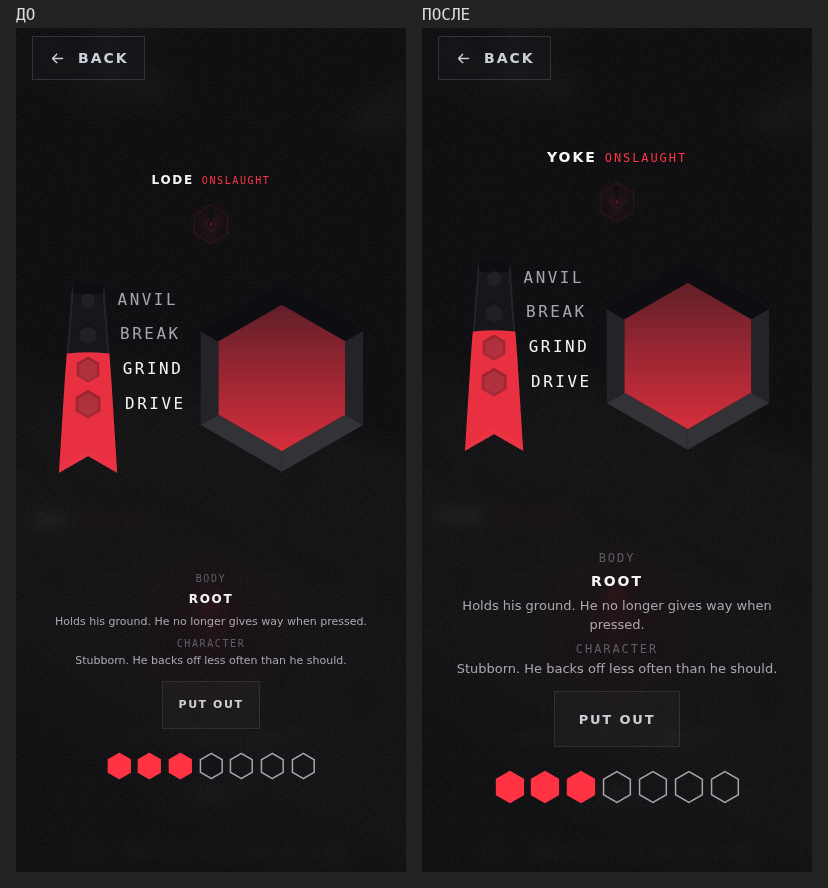
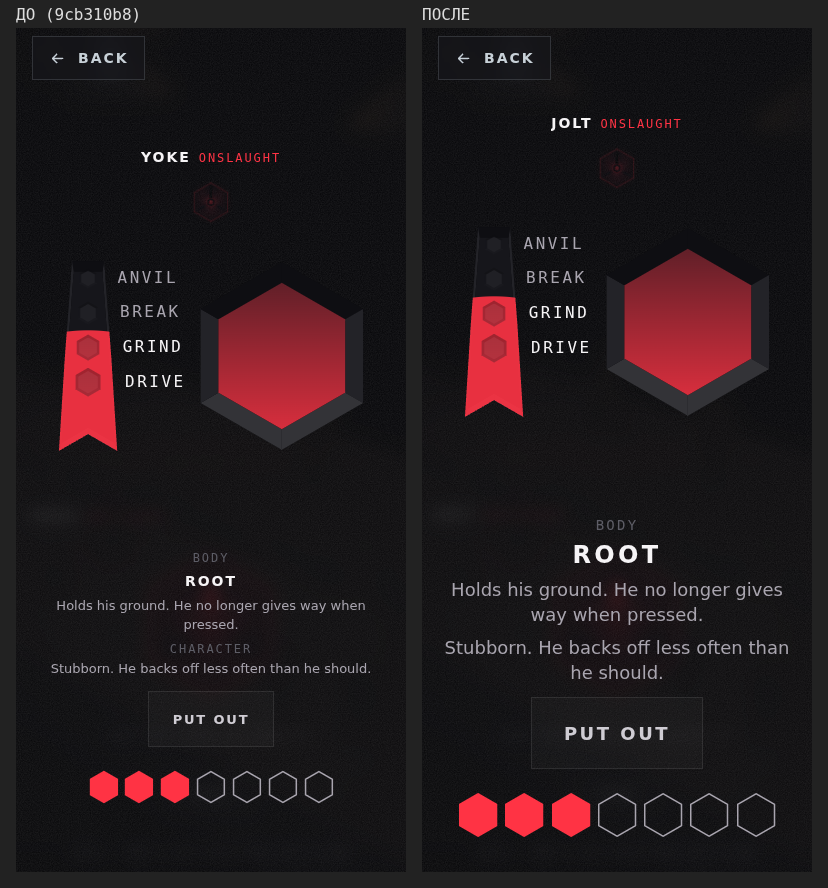
forge card: drop CHARACTER label, scroll text part with pinned button and hex row, raise type two more steps
Claude-Session: https://claude.ai/code/session_01EY8nt21kiZLttYXQw11NxB

diff --git a/src/styles/forge.css b/src/styles/forge.css
@@ -340,8 +340,8 @@
 .fc {
   display: flex; flex-direction: column; min-width: 0;
   /* Высота кнопок карточки: было --h-btn-md (48), теперь на восемь точек выше —
-     надпись выросла на две ступени шкалы, кнопка растёт вместе с ней. */
-  --fc-btn-h: calc(var(--h-btn-md) + var(--sp-2));
+     надпись выросла (11 → 13 → 18), кнопка растёт вместе с ней (48 → 56 → 72). */
+  --fc-btn-h: calc(var(--h-btn-md) + var(--sp-5));
 }
 
 /* Кто открыт — одной строкой. Имя заглавными, ядро своим цветом. */
@@ -469,65 +469,56 @@
 .fc-read { margin-top: var(--sp-3); min-width: 0; flex: 0 0 auto; }
 .fc-head { display: flex; flex-direction: column; gap: var(--sp-1); }
 .fc-kicker {
-  font-size: var(--t-sm); letter-spacing: var(--ls-meta);
+  font-size: var(--t-md); letter-spacing: var(--ls-meta);
   text-transform: uppercase; color: var(--ink-off);
 }
 .fc-name {
-  margin: 0; font-family: var(--font-display); font-size: var(--t-md);
+  margin: 0; font-family: var(--font-display); font-size: var(--t-xl);
   font-weight: 700; letter-spacing: var(--ls-title);
   text-transform: uppercase; color: var(--ink);
 }
 .fc-hint {
-  margin: 0; font-size: var(--t-sm); letter-spacing: var(--ls-title);
+  margin: 0; font-size: var(--t-md); letter-spacing: var(--ls-title);
   text-transform: uppercase; color: var(--ink-off); text-align: center;
 }
 .fc-hint--left { text-align: left; }
 /* ОПИСАНИЕ КРИСТАЛЛА — что он даёт в бою и как меняет манеру. Настоящий текст,
    а не перечень фраз из игровых данных (ТЗ 24.09.2026). Цифр здесь нет ни одной.
 
-   ⚠ ПРОКРУТКА ОСТАЁТСЯ, и она здесь единственная страховка от того, ради чего
-   ограничение и заводилось: длинное описание не должно выдавливать «ЗАЖЕЧЬ» и
-   возврат под нижний край (замерено прежде — на 67 точек в самой низкой
-   раскладке). Потолок поднят с 4.2em до 7.5em, потому что вместо двух-трёх
-   слов тут теперь два предложения: при прежнем потолке строка характера
-   пряталась под сгиб целиком, и её приходилось искать прокруткой.
+   ⚠ СВОЕЙ ПРОКРУТКИ У ЭТОГО БЛОКА БОЛЬШЕ НЕТ (ТЗ 30.09.2026, v3). Потолок
+   высоты снят: текст растёт вместе с кеглем. Прокручивается не он, а вся текстовая
+   часть — .fc-read, см. «.fco .fc-read» ниже — а кнопка и ряд остаются внизу.
+   В SPAR карточка стоит в панели, у которой прокрутка своя.
 
    ⚠ КАПИТЕЛИ У ПРЕДЛОЖЕНИЙ НЕТ. Она в системе отведена лейблам и ударным
    словам до трёх (hexlash-design §3); целое предложение заглавными и читается
-   хуже, и занимает заметно больше места. Заглавными здесь только подпись
-   CHARACTER — она лейбл. Трекинга у предложений тоже нет: он для подписей. */
+   хуже, и занимает заметно больше места. Трекинга у предложений тоже нет: он для подписей. */
 .fc-lines {
   margin: var(--sp-2) 0 0; padding: 0;
-  max-height: 7.5em; overflow-y: auto; overscroll-behavior: contain;
 }
 /* ⚠ Предложения переносятся, а не обрезаются: ни одного обрезающего правила
    здесь быть не должно. Длинное слово ломается, чтобы не распирать колонку. */
 .fc-line, .fc-char__text {
-  margin: 0; font-family: var(--font-display); font-size: var(--t-base);
-  line-height: 1.45; color: var(--ink-dim);
+  margin: 0; font-family: var(--font-display); font-size: var(--t-lg);
+  line-height: 1.4; color: var(--ink-dim);
   overflow-wrap: anywhere; hyphens: none;
 }
 .fc-char { margin: var(--sp-2) 0 0; }
-/* Подпись строки характера — лейбл, потому моно и заглавными. */
-.fc-char__label {
-  display: block; font-family: var(--font-mono); font-size: var(--t-sm);
-  letter-spacing: var(--ls-meta); text-transform: uppercase; color: var(--ink-off);
-}
-.fc-char__text { display: block; margin-top: var(--sp-1); }
+.fc-char__text { display: block; }
 
 .fc-foot {
   margin-top: var(--sp-3); flex: 0 0 auto; display: flex; align-items: center;
   gap: var(--sp-3); flex-wrap: wrap;
 }
 .fc-why {
-  margin: 0; font-size: var(--t-sm); letter-spacing: var(--ls-meta);
+  margin: 0; font-size: var(--t-md); letter-spacing: var(--ls-meta);
   text-transform: uppercase; color: var(--ink-off);
 }
 /* Зажечь — главное действие экрана, потому розовое. Оно тут одно. */
 .fc-light {
-  min-height: var(--fc-btn-h); padding: 0 var(--sp-5);
+  min-height: var(--fc-btn-h); padding: 0 var(--sp-6);
   border: 0; border-radius: var(--r-none); background: var(--pink);
-  color: var(--ink); font-family: var(--font-display); font-size: var(--t-base);
+  color: var(--ink); font-family: var(--font-display); font-size: var(--t-lg);
   font-weight: 700; letter-spacing: var(--ls-title);
   text-transform: uppercase; cursor: pointer;
   transition: opacity var(--d-hover) var(--e-settle);
@@ -539,10 +530,10 @@
 /* Погасить — не главное действие, поэтому не розовое: семья .fc-back, а размер и
    отступы — как у «зажечь», чтобы кнопка стояла ровно на его месте. */
 .fc-out {
-  min-height: var(--fc-btn-h); padding: 0 var(--sp-5);
+  min-height: var(--fc-btn-h); padding: 0 var(--sp-6);
   border: 1px solid var(--line); border-radius: var(--r-none);
   background: var(--fill-1); color: var(--ink-soft);
-  font-family: var(--font-display); font-size: var(--t-base);
+  font-family: var(--font-display); font-size: var(--t-lg);
   font-weight: 700; letter-spacing: var(--ls-title);
   text-transform: uppercase; cursor: pointer;
   transition: border-color var(--d-hover) var(--e-settle),
@@ -565,7 +556,7 @@
   flex: 0 0 100%; display: flex; justify-content: center; flex-wrap: nowrap;
   gap: var(--sp-2); margin-top: var(--sp-3);
 }
-.fc-pip { display: block; flex: none; height: 32px; width: auto; overflow: visible; }
+.fc-pip { display: block; flex: none; height: 44px; width: auto; overflow: visible; }
 .fc-pip polygon { vector-effect: non-scaling-stroke; }
 .fc-pip__hex {
   fill: none; stroke: var(--ink-dim); stroke-width: 1.5px; stroke-linejoin: miter;
@@ -590,7 +581,7 @@
 /* Строка «нет места» — читаемым тоном (--ink-soft), а не серым в ноль. */
 .fc-noroom {
   flex: 0 0 100%; margin: 0; text-align: center;
-  font-size: var(--t-base); letter-spacing: var(--ls-meta);
+  font-size: var(--t-lg); letter-spacing: var(--ls-meta);
   text-transform: uppercase; color: var(--ink-soft);
 }
 .fc-back {
@@ -610,7 +601,7 @@
    выключенными не были. Селектор с .fp нарочно: правила .fc-* выше делит с залом
    экран SPAR (SparView подключает этот файл ради ядра), и его подписи здесь не
    перекрашиваются. */
-.fp .fc-kicker, .fp .fc-hint, .fp .fc-char__label, .fp .fc-why { color: var(--ink-dim); }
+.fp .fc-kicker, .fp .fc-hint, .fp .fc-why { color: var(--ink-dim); }
 
 /* «Уменьшить движение»: переходов нет, конечные состояния те же. Отклик на
    выбор остаётся — он не украшение. */
@@ -939,7 +930,7 @@
   --f-t: 0px; --f-r: 0px; --f-b: 0px; --f-l: 0px;
   /* Что резервируем под остальное на слое: место под BACK сверху, подпись, описание
      и кнопку зажигания. От этого зависит, насколько крупной встанет фигура. */
-  --fco-reserve: 380px;
+  --fco-reserve: 450px;   /* было 380: кнопка и ряд выросли, фигура отдаёт им высоту */
 
   position: fixed; inset: 0; z-index: var(--z-modal);
   display: flex; flex-direction: column;
@@ -956,7 +947,24 @@
   /* Сверху — место под BACK (угол левый верхний), поэтому отступ больше боковых. */
   padding: calc(var(--h-btn-sm) + var(--sp-4) + var(--sp-2)) var(--sp-3) var(--sp-4);
 }
-.fco .fc { width: min(100%, 720px); margin: auto 0; }
+.fco .fc { width: min(100%, 720px); margin: auto 0; max-height: 100%; }
+
+/* ТЕКСТОВАЯ ЧАСТЬ ПРОКРУЧИВАЕТСЯ, КНОПКА И РЯД — НЕТ (ТЗ 30.09.2026, v3).
+   Фигура, подпись «кто», кнопка и ряд занимают свою высоту и не сжимаются; всё,
+   чего не хватает, берёт на себя .fc-read. Когда текст помещается — прокрутки нет,
+   затемнения нет, следов не видно. Полосы прокрутки нет совсем: что ниже есть ещё,
+   показывает мягкое затемнение нижней кромки (класс is-more ставит ForgeCore),
+   оно уходит, когда дошли до конца. */
+.fco .fc-stage, .fco .fc-who, .fco .fc-foot { flex: 0 0 auto; }
+.fco .fc-read {
+  flex: 1 1 auto; min-height: 0; overflow-y: auto; overscroll-behavior: contain;
+  scrollbar-width: none;
+}
+.fco .fc-read::-webkit-scrollbar { display: none; }
+.fco .fc-read.is-more {
+  -webkit-mask-image: linear-gradient(to bottom, #000 calc(100% - var(--sp-6)), transparent);
+          mask-image: linear-gradient(to bottom, #000 calc(100% - var(--sp-6)), transparent);
+}
 
 /* ФИГУРА — максимально крупная, какая влезает с полями: меньшая из ширины экрана
    и высоты за вычетом резерва. Фон убран: зал позади виден сквозь стекло, а не
@@ -989,12 +997,18 @@
   .fco-body { padding-bottom: var(--sp-2); }
   .fco .fc {
     width: min(100%, 860px); display: grid; align-items: center;
+    /* Высота — на всё тело слоя, строка текста — остаток между подписью и
+       кнопкой: она и прокручивается, а кнопка остаётся внизу. */
+    height: 100%; margin: 0;
     grid-template-columns: auto minmax(0, 1fr); column-gap: var(--sp-5);
+    grid-template-rows: auto minmax(0, 1fr) auto;
     grid-template-areas: "stage who" "stage read" "stage foot";
   }
   .fco .fc-stage { grid-area: stage; }
   .fco .fc-who { grid-area: who; justify-content: flex-start; }
-  .fco .fc-read { grid-area: read; }
+  /* stretch, а не центр: иначе строка принимает высоту текста целиком и не
+     прокручивается — налезает на кнопку. */
+  .fco .fc-read { grid-area: read; align-self: stretch; }
   .fco .fc-foot { grid-area: foot; }
 }
 

diff --git a/src/components/forge/ForgeCore.vue b/src/components/forge/ForgeCore.vue
@@ -209,7 +209,7 @@
     </div>
 
     <!-- ── что сейчас открыто ───────────────────────────────────────────── -->
-    <div class="fc-read">
+    <div ref="readEl" class="fc-read" :class="{ 'is-more': moreBelow }" @scroll.passive="updateMore">
       <template v-if="level === 'core'">
         <p class="fc-hint">{{ preview ? t.forge.coreOpenHint : t.forge.coreHint }}</p>
       </template>
@@ -223,15 +223,14 @@
         <p v-if="level === 'facet'" class="fc-hint fc-hint--left">{{ t.forge.facetHint }}</p>
 
         <!-- ОПИСАНИЕ КРИСТАЛЛА — две вещи и ни одной цифры (ТЗ 24.09.2026):
-             что он даёт бойцу в бою, и как он меняет его манеру. Вторую
-             подписываем словом CHARACTER — внутреннего словаря игрок не видит.
+             что он даёт бойцу в бою, и как он меняет его манеру. Подписи CHARACTER
+             над второй строкой больше нет (ТЗ 30.09.2026, v3): строка и так
+             читается как характер, а место нужно под размер.
              ⚠ Предложения набраны своим регистром, а не капителью: капитель в
-             системе отведена лейблам и ударным словам до трёх. Заглавными здесь
-             только сама подпись CHARACTER — она лейбл. -->
+             системе отведена лейблам и ударным словам до трёх. -->
         <div v-else-if="cryText" class="fc-lines">
           <p class="fc-line fc-line--effect">{{ cryText.effect }}</p>
           <p class="fc-char">
-            <span class="fc-char__label">{{ t.forge.characterLabel }}</span>
             <span class="fc-char__text">{{ cryText.character }}</span>
           </p>
         </div>
@@ -451,6 +450,34 @@ watch(() => props.spent, (n, o) => {
   pipTimer = setTimeout(() => { pipFlash.value = null; }, PIP_FLASH_MS);
 });
 onBeforeUnmount(() => clearTimeout(pipTimer));
+
+/* ── текстовая часть карточки прокручивается, кнопка и ряд — нет ────────────
+   В развороте высоты может не хватать (телефон стоя с крупным текстом, лёжа тем
+   более): тогда прокручивается ТОЛЬКО .fc-read, а .fc-foot остаётся прижатым к
+   низу. Полосы прокрутки нет (см. forge.css); что ниже есть ещё — говорит мягкое
+   затемнение нижней кромки, класс is-more. Он снимается, когда дошли до конца или
+   когда всё помещается. */
+const readEl = ref(null);
+const moreBelow = ref(false);
+function updateMore() {
+  const el = readEl.value;
+  moreBelow.value = !!el && el.scrollHeight - el.clientHeight - el.scrollTop > 2;
+}
+let readRo = null;
+onMounted(() => {
+  if (typeof ResizeObserver === 'undefined' || !readEl.value) return;
+  readRo = new ResizeObserver(updateMore);
+  readRo.observe(readEl.value);
+  updateMore();
+});
+onBeforeUnmount(() => { if (readRo) readRo.disconnect(); });
+/* Другой уровень или другой кристалл — текст другой: читать с начала. */
+watch([level, () => sel.value, () => cry.value], () => {
+  requestAnimationFrame(() => {
+    if (readEl.value) readEl.value.scrollTop = 0;
+    updateMore();
+  });
+});
 
 /* ── налив ─────────────────────────────────────────────────────────────── */
 const flowStyle = (f) => ({

diff --git a/src/locales/en.js b/src/locales/en.js
@@ -142,10 +142,7 @@ export default {
     litCount: "{n} OF {max} CRYSTALS LIT",
     // Все места заняты. Единственное место ряда со словами.
     noRoom: "NO ROOM — PUT ONE OUT FIRST",
-    // Подпись второй строки описания кристалла: как он меняет манеру бойца.
-    // ⚠ Внутреннего словаря здесь быть не может — игрок его не видит. Слово
-    // DOCTRINE и прочее наружу не выходит; для игрока это просто характер.
-    characterLabel: "CHARACTER",
+    // Подписи CHARACTER над строкой характера больше нет (ТЗ 30.09.2026, v3).
     backToFacet: "← BACK TO THE FACET",
     backToCore: "← BACK TO THE CORE",
     // почему этот кристалл не зажечь — по одной причине на случай

diff --git a/docs/forge-type-scale/REPORT.md b/docs/forge-type-scale/REPORT.md
@@ -1,4 +1,77 @@
-# Карточка кристалла: текст крупнее на две ступени (ТЗ 30.09.2026)
+# Карточка кристалла: ещё на две ступени, прокрутка текста, без подписи CHARACTER (ТЗ 30.09.2026, v3)
+
+Ветка `claude/forge-card-type-scale-2` — поверх `claude/forge-card-type-scale` (`9cb310b8`), в которой уже лежат ряд из семи шестиугольников и первый подъём на две ступени. `origin/main` = `d8c14acc` (проверено первым действием и перед сдачей, не сдвинулся). В `main` ничего не вливалось. Точка отката при мерже — `d8c14acc`.
+
+Решения владельца учтены: слово ветви (BODY/MIND/WILL) **остаётся**, строка характера **на виду всегда**, `CHARACTER` убран.
+
+## Что сделано
+
+1. **`CHARACTER` убран** из разметки (`ForgeCore.vue`) вместе с отступом; строка характера поднялась под строку эффекта. Ключ `forge.characterLabel` удалён из `en.js` (читать стало некому), правила `.fc-char__label` из `forge.css` — тоже.
+2. **Прокрутка только у текстовой части.** В развороте ядра (`.fco`) блок `.fc-read` (слово ветви, название, эффект, характер) занимает остаток высоты и прокручивается; фигура, подпись «кто», кнопка и ряд шестиугольников (`.fc-foot`) не сжимаются и стоят внизу.
+   - Когда текст помещается — прокрутки и затемнения нет.
+   - Когда не помещается — нижняя кромка мягко уходит в прозрачность (маска, класс `is-more`; снимается, когда дочитали до конца). Полосы прокрутки нет совсем. При смене кристалла или уровня текст возвращается в начало.
+   - Снят потолок 7.5em с `.fc-lines`: у него была своя внутренняя прокрутка, теперь она одна, у `.fc-read`.
+   - Телефон лёжа: сетка получила явные высоту и ряды (`auto / 1fr / auto`), текст растягивается на свой ряд.
+3. **Размеры ещё на две ступени** (шкала `tokens.css`).
+4. Резерв высоты под текст в развороте `--fco-reserve` 380 → 450 px: фигура на 1280×800 стала ниже (420 → 350), иначе кнопка и ряд выросли и на десктопе появилась прокрутка. На телефоне стоя фигура ограничена шириной и не изменилась.
+
+## Размеры по элементам (было = `9cb310b8` → стало)
+
+| Элемент | Было | Стало |
+|---|---|---|
+| Слово ветви `.fc-kicker` | 12 px | **14 px** (самое мелкое в блоке) |
+| Название кристалла `.fc-name` | 14 px | **24 px** (самое крупное) |
+| Строка эффекта | 13 px | **18 px** |
+| Строка характера | 13 px | **18 px** |
+| Подсказка уровня `.fc-hint` | 12 px | **14 px** |
+| Причина «нельзя» `.fc-why` | 12 px | **14 px** |
+| Текст LIGHT IT / PUT OUT | 13 px | **18 px** |
+| Высота LIGHT IT / PUT OUT | 56 px | **72 px** |
+| Боковое поле кнопки | 24 px | **32 px** |
+| Строка NO ROOM — PUT ONE OUT FIRST | 13 px | **18 px** (на 390 px шириной переносится на две строки; на 844 и 1280 — одна) |
+| Ряд шестиугольников (высота одного) | 32 px | **44 px** |
+| Подпись CHARACTER | 12 px | убрана |
+
+Не менялись: имя бойца и название ядра в шапке (14 / 12 px), кнопка возврата к грани (только SPAR, 12 px), тексты, цвета, порядок блоков, положение кнопки и ряда.
+
+## Где появилась прокрутка текста
+
+Замер в живом браузере (`shots/after3-states-log.txt`, `after3-all15-log.txt`; `read.sh > read.ch` = текст длиннее окна). Кнопка и ряд **видны во всех состояниях и на всех размерах** (`foot.visible = true`).
+
+| Размер | Состояние | Прокрутка |
+|---|---|---|
+| **390×844** | BREAK, COLD, PUT OUT, уровень ветви | нет |
+| **390×844** | все 15 кристаллов при трёх зажжённых | **нет ни у одного** |
+| **390×844** | самое высокое: все семь заняты + NO ROOM (две строки) | **есть**, 17 px: текст 169 → окно 152, видно эффект и начало характера, дальше прокрутка; кнопка до 828, запас до края 16 px |
+| **844×390 лёжа** | BREAK, COLD, PUT OUT, все 15, кроме коротких (ROOT-DRIVE-GRIND-ANVIL/TIMING/ADAPT/COLD/SPITE/VOW/STILL/BREAK — с прокруткой; DRIVE, WATCH, FEINT, HOLD, HUNGER — без) | **есть у 10 из 15** (окно текста 126 px из 144–169) |
+| **844×390 лёжа** | самое высокое (семь + NO ROOM) | **есть**: окно 93 px из 169, первая строка эффекта и затемнение; кнопка и ряд на месте, NO ROOM в одну строку |
+| **1280×800** | все состояния | **нет** (BREAK 118/118, COLD 144/144, семь занято 118/118); нижняя кромка кнопок 754–771 из 800 |
+| **SPAR 390×844** | BREAK | у карточки своей прокрутки нет — она растёт, прокручивается панель SPAR, как и прежде (1315 → 1416 px содержимого). Вложенных прокруток нет: внутреннюю у `.fc-lines` я снял |
+
+## Проверки
+
+- Слово ветви на месте на уровне ветви: кадр `pair-m-5-facet.png` (BODY над подсказкой) — заголовок не пуст.
+- Все 15 кристаллов, телефон стоя: лист `pairs/sheet-m-all15.png`; лёжа: `sheet-l-all15.png`. Текст переносится, не режется, горизонтального выхода нет ни у одного (`hOver=[]`). Замечание: на листе у нескольких кадров на фигуре видна промежуточная анимация — кристаллы выставлялись прямо в состоянии карточки; сама карточка не затронута.
[1 lines of base64/hex data omitted]
+- `npm run build` проходит.
+
+## Решение, которое остаётся за владельцем
+
+- **SPAR:** кнопка LIGHT IT там **не закреплена** — она внутри панели с собственной прокруткой (там же баффы и FIGHT), и закреплять её внутри карточки значило бы вложить прокрутку в прокрутку. ТЗ про закрепление говорит о карточке; если нужно и в SPAR — это отдельная работа над панелью.
+- **Телефон лёжа, самое высокое состояние:** окно текста 93 px, то есть строка характера там за прокруткой. Это следствие ТЗ («размер растёт, высота не ограничивает»); если хочется видеть её сразу, можно ужать фигуру лёжа — не делал, на границу фигуры ТЗ не разрешало.
+
+## Приёмка — где смотреть
+
+`docs/forge-type-scale/pairs/`: `pair-m-*` (390×844), `pair-l-*` (844×390, «до» для лёжа нет — раньше не снималось), `pair-d-*` (1280×800), `pair-m-6-spar-*` (SPAR), `sheet-m/l-all15.png`. `1-break`, `2-cold`, `3-lit7` (самое высокое), `4-putout`, `5-facet`. «До» = `9cb310b8`. Снимает `scripts/forge-scale-shots.mjs`, пары — `scripts/forge-scale-pairs.mjs`.
+
+## Мерж
+
+Не делался. Все три работы (ряд шестиугольников, первый подъём, эта) вливаются одним заходом по слову владельца: проверить, что `origin/main` всё ещё `d8c14acc`, записать точку отката, после — регрессия и сборка.
+
+---
+
+# Предыдущий раунд (v1/v2 → `9cb310b8`): текст на две ступени выше
+
 
 База: ветка `claude/crystal-counter-hexes` (`6a1df98c`), от неё — `claude/forge-card-type-scale`. `origin/main` на старте и сейчас = `d8c14acc` (не сдвинулся). В `main` ничего не вливалось.
 
